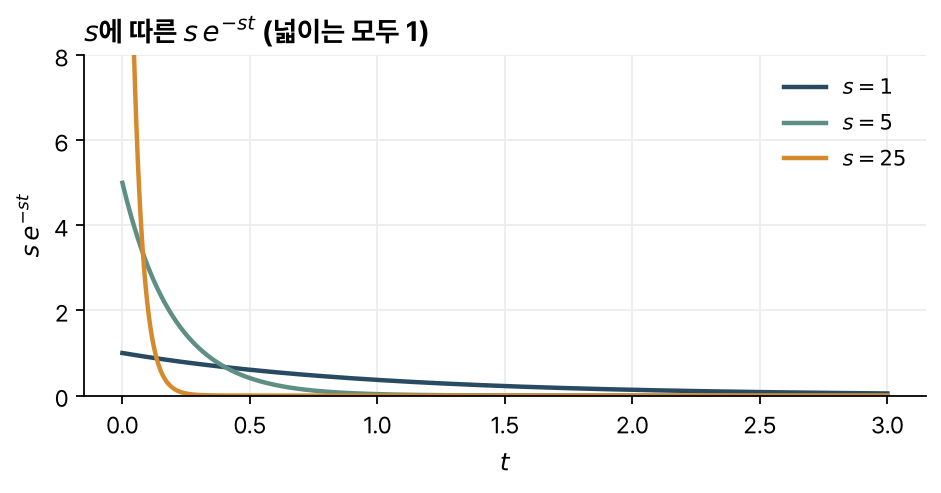
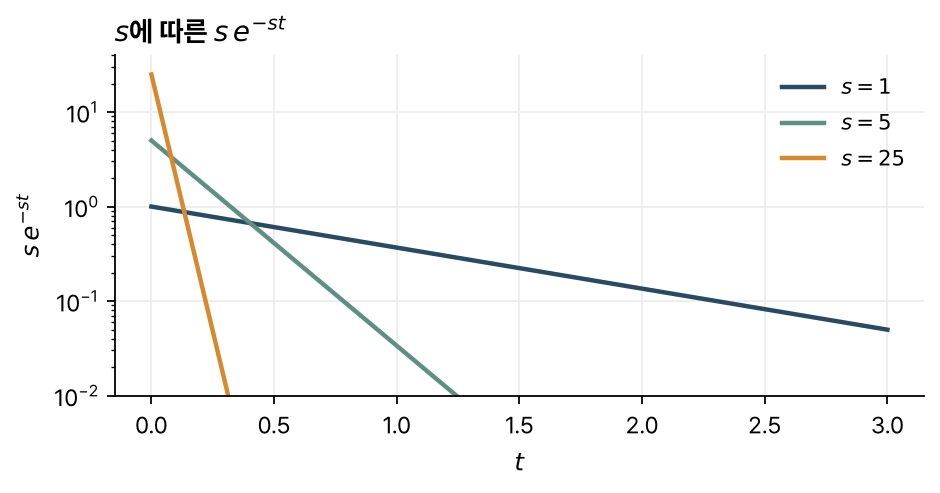
Fix review findings in 6.003 continuous-time systems and Laplace notes
Claude-Session: https://claude.ai/code/session_01DRUnFxFn4g3T7a1hqi5YWp

diff --git a/scripts/figures/ct_laplace.py b/scripts/figures/ct_laplace.py
@@ -65,10 +65,11 @@ tt = np.linspace(0, 3, 600)
 fig, ax = plt.subplots(figsize=(6, 3.2))
 for s, c in [(1, BLUE), (5, TEAL), (25, ORANGE)]:
     ax.plot(tt, s * np.exp(-s * tt), color=c, lw=2, label=f"$s = {s}$")
-ax.set_ylim(0, 8)
+ax.set_yscale("log")
+ax.set_ylim(1e-2, 40)
 ax.set_xlabel("$t$")
 ax.set_ylabel("$s\\,e^{-st}$")
-ax.set_title("$s$에 따른 $s\\,e^{-st}$ (넓이는 모두 1)", loc="left")
+ax.set_title("$s$에 따른 $s\\,e^{-st}$", loc="left")
 ax.legend(fontsize=9.5)
 fig.tight_layout()
 save(fig, "laplace-transform", "s-exp-kernel.png")

diff --git a/content/courses/mit-6003/laplace-transform.md b/content/courses/mit-6003/laplace-transform.md
@@ -50,9 +50,9 @@ X_4(s) = \frac{1}{1 - s} + \frac{1}{1 + s} = \frac{2}{1 - s^2}, \qquad -1 < \ope
 $$
 
 ![[../../images/laplace-transform/regions-of-convergence.png]]
-*그림 1. 세 신호의 극점(×)과 수렴영역(색칠한 부분). 오른쪽으로 뻗은 신호는 오른쪽 반평면, 왼쪽으로 뻗은 신호는 왼쪽 반평면, 양쪽으로 뻗은 신호는 세로 띠에서 수렴한다.*
+*그림 1. $e^{-t}u(t)$, $-e^{-t}u(-t)$, $e^{-\vert t\vert}$의 극점(×)과 수렴영역(색칠한 부분). 강의 자료의 예를 직접 계산해 그렸다.*
 
-시간 영역에서 보면 $e^{-st}$의 $e^{-\sigma t}$ 부분($\sigma = \operatorname{Re} s$)이 신호를 눌러 적분이 유한해지는 범위가 수렴영역이다. 오른쪽으로 뻗은 신호는 $\sigma$가 충분히 크면, 왼쪽으로 뻗은 신호는 $\sigma$가 충분히 작으면 수렴한다.
+시간 영역에서 보면 $x(t)e^{-\sigma t}$($\sigma = \operatorname{Re} s$)의 적분이 유한해지는 $\sigma$의 범위가 수렴영역이다. 오른쪽으로 뻗은 신호는 $\sigma$가 충분히 크면, 왼쪽으로 뻗은 신호는 $\sigma$가 충분히 작으면 수렴한다. 이에 따라 수렴영역은 어떤 세로선의 오른쪽, 어떤 세로선의 왼쪽, 또는 두 세로선 사이의 띠가 된다.
 
 식 하나가 여러 신호를 가리킬 수 있다. $\frac{2s}{s^2 - 4} = \frac{1}{s+2} + \frac{1}{s-2}$의 두 극점 $-2$, $2$마다 오른쪽 또는 왼쪽 신호를 고를 수 있다.
 
@@ -63,7 +63,7 @@ $$
 | $-e^{-2t}u(-t) - e^{2t}u(-t)$ | $\operatorname{Re} s < -2$ |
 | $-e^{-2t}u(-t) + e^{2t}u(t)$ | 없음 |
 
-마지막 조합은 두 수렴영역이 겹치지 않아 변환이 없다. 그래서 이 식에 대응하는 신호는 세 개다.
+마지막 조합은 두 수렴영역이 겹치지 않아 변환이 없으므로, 이 식에 대응하는 신호는 세 개다.
 
 ## 미분방정식 풀기
 
@@ -75,7 +75,7 @@ $$
 
 이다. 첫 항은 $X(s)$가 수렴한다는 조건 때문에 0이다. 임펄스의 변환은 **체질 성질**로 구한다. $\delta(t)$를 곱해 적분하면 $t = 0$의 값만 남으므로 $\mathcal{L}\{\delta(t)\} = e^{0} = 1$이다.
 
-$\dot y + y = \delta(t)$에 변환을 취하면 $sY + Y = 1$이라는 대수식이 되고, $Y(s) = \frac{1}{s+1}$이다. 앞에서 본 형태이므로 $y(t) = e^{-t}u(t)$다. 같은 식의 왼쪽 신호 $-e^{-t}u(-t)$도 후보지만, 임펄스가 들어가기 전에 출력이 있는 해이므로 인과 시스템의 응답으로는 오른쪽 신호를 고른다(강의 자료는 이 선택을 질문으로 남기고, 이 이유는 강의 자료 밖의 설명이다). 동차해와 특수해를 따로 구하지 않아도 된다.
+$\dot y + y = \delta(t)$에 변환을 취하면 $sY + Y = 1$이라는 대수식이 되고, $Y(s) = \frac{1}{s+1}$이다. 앞에서 본 형태이므로 $y(t) = e^{-t}u(t)$다. 같은 식의 왼쪽 신호 $-e^{-t}u(-t)$도 후보지만, 임펄스가 들어가기 전에 출력이 있는 해이므로 인과 시스템의 응답으로는 오른쪽 신호를 고른다(강의 자료는 이 선택을 질문으로만 남긴다. 위 이유는 강의 자료 밖의 설명이다). 동차해와 특수해를 따로 구하지 않아도 된다.
 
 2차 방정식 $\ddot y + 3\dot y + 2y = \delta(t)$도 같다.
 
@@ -113,7 +113,7 @@ $$
 x(0^+) = \lim_{s \to \infty} sX(s)
 $$
 
-이다. $sX(s) = \int_0^\infty x(t)\,se^{-st}\,dt$에서 $se^{-st}$의 넓이는 $s$와 상관없이 1이고, $s \to \infty$이면 이 함수가 $t = 0$ 근처로 모여 $\delta(t)$처럼 된다. 극한이 오른쪽에서 다가가므로 $0^+$의 값이 나온다.
+이다. $sX(s) = \int_0^\infty x(t)\,se^{-st}\,dt$에서 $se^{-st}$의 넓이는 $s$와 상관없이 1이고, $s \to \infty$이면 이 함수가 $t = 0$ 근처로 모이고, 그 극한이 $\delta(t)$다. 극한이 오른쪽에서 다가가므로 $0^+$의 값이 나온다.
 
 $t < 0$에서 $x(t) = 0$이고 $t \to \infty$에서 $x(t)$가 유한한 극한을 가지면
 
@@ -121,25 +121,25 @@ $$
 x(\infty) = \lim_{s \to 0} sX(s)
 $$
 
-이다. $s \to 0$이면 $se^{-st}$가 넓이 1을 유지한 채 평평해지고, 그 평균 위치 $1/s$가 점점 큰 $t$로 옮겨 가기 때문이다.
+이다. $s \to 0$이면 $se^{-st}$가 넓이 1을 유지한 채 평평해지고, 그 평균 위치 $1/s$가 점점 큰 $t$로 옮겨 간다. 가중치가 큰 $t$에 몰리므로 적분이 $x(\infty)$에 가까워진다.
 
 ![[../../images/laplace-transform/s-exp-kernel.png]]
-*그림 2. $s = 1, 5, 25$에서 $s\,e^{-st}$의 모양. 직접 계산한 값이다.*
+*그림 2. $s = 1, 5, 25$에서 $s\,e^{-st}$의 모양(세로축은 로그 눈금). 세 곡선 아래 넓이는 모두 1이다. 직접 계산한 값이다.*
 
 ## 유의점
 
 - 양방향 변환에서는 식만으로 신호가 정해지지 않는다. 수렴영역을 함께 적어야 한다.
 - 수렴영역에는 극점이 들어가지 않고, 오른쪽 신호의 수렴영역은 가장 오른쪽 극점의 오른쪽에 있다(강의 자료 밖의 일반화).
 - 미분 성질 $sX(s)$는 양방향 변환의 것이다. 단방향 변환에서는 초기값 항 $-x(0^-)$가 붙는다(강의 자료 밖의 내용).
-- 최종값 정리는 $x(t)$가 유한한 극한을 가질 때만 쓴다. $e^{t}u(t)$처럼 발산하거나 계속 진동하는 신호에 쓰면 틀린 값이 나온다.
-- 푸리에 변환은 수렴영역이 $j\omega$축을 포함할 때 $s = j\omega$에서 본 라플라스 변환이다([[fourier-transform|연속시간 푸리에 변환]]).
+- 최종값 정리는 $x(t)$가 유한한 극한을 가질 때만 쓴다. $e^{t}u(t)$처럼 발산하거나 계속 진동하는 신호에 쓰면 틀린 값이 나온다(강의 자료 밖의 내용).
+- 푸리에 변환은 수렴영역이 $j\omega$축을 포함할 때 $s = j\omega$에서 본 라플라스 변환이다([[fourier-transform|연속시간 푸리에 변환]], 강의 자료 밖의 내용).
 
 ## 관련 개념
 
 - [[ct-systems-operator|연속시간 시스템과 적분 연산자]]: $A$를 $1/s$로 바꾸기 전의 시스템 함수식
 - [[z-transform|z 변환]]: 이산시간에서 같은 역할을 하는 변환
 - [[fourier-transform|연속시간 푸리에 변환]]: $j\omega$축 위의 라플라스 변환
-- [[bode-plot|보드 플롯]]: 극점과 영점에서 그리는 주파수 응답
+- [[bode-plot|보드 선도]]: 극점과 영점에서 그리는 주파수 응답
 
 ## 참고 자료
 
